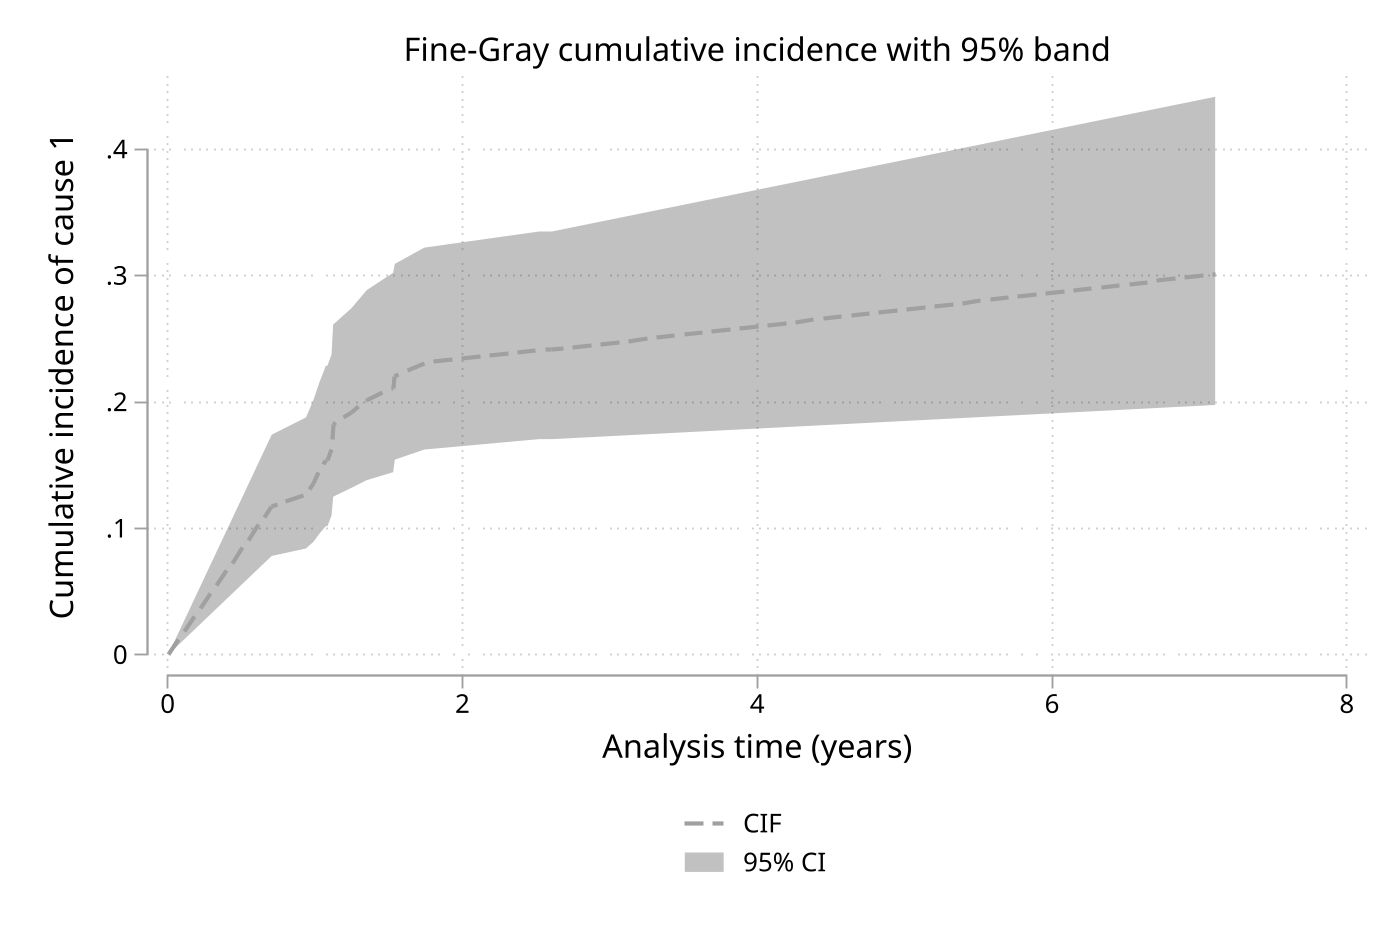
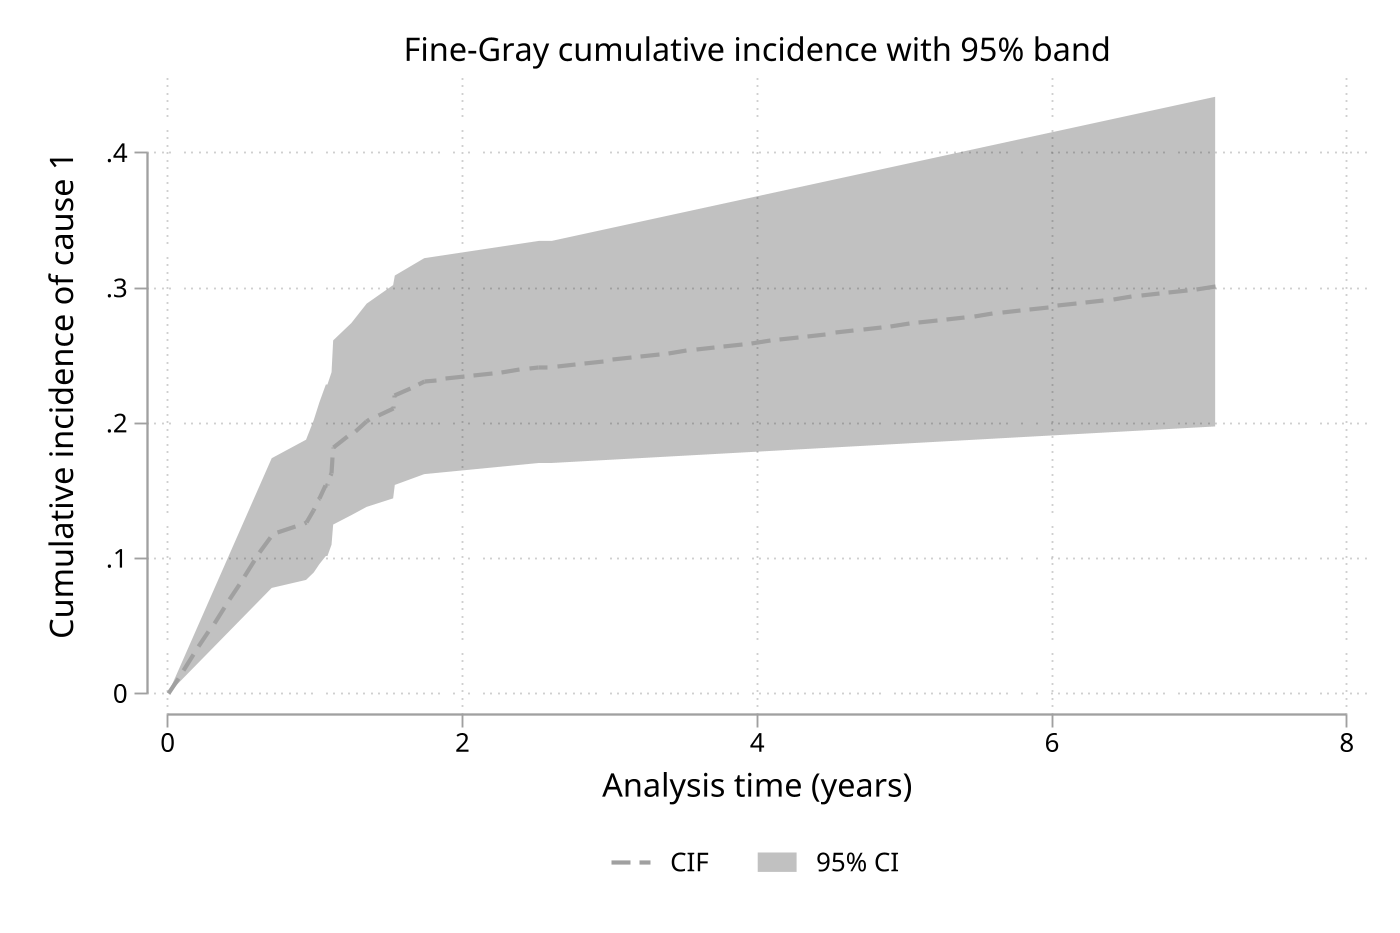
feat(finegray): finegray_cif legend single-row with twoway passthrough

diff --git a/finegray/README.md b/finegray/README.md
@@ -170,7 +170,7 @@ The package QA cross-validates `finegray` against Stata's `stcrreg` and independ
 ## Version History
 
 - **1.1.0** (2026-06-21): Feature release.
-  - New command `finegray_cif`: cumulative incidence curves with pointwise confidence bands (an `stcurve, cif` analogue that also plots the interval), fixed-horizon CIF tables (`attime()`), curves on a custom time grid (`timepoints()`), an exact subject-bootstrap band (`bootstrap()`/`seed()`), and exportable estimates via `saving()`.
+  - New command `finegray_cif`: cumulative incidence curves with pointwise confidence bands (an `stcurve, cif` analogue that also plots the interval), fixed-horizon CIF tables (`attime()`), curves on a custom time grid (`timepoints()`), an exact subject-bootstrap band (`bootstrap()`/`seed()`), and exportable estimates via `saving()`. The CIF plot's legend defaults to a single row, and all `twoway` graph options (including `legend()` — e.g. `legend(off)`, `legend(pos(6))`) pass through and override the defaults.
   - `finegray_predict, cif ci` adds per-subject CIF confidence limits (influence-function SE, complementary log-log scale), with an optional exact `bootstrap()` band. The analytic SE now builds its influence functions from the full estimation sample even when prediction is restricted with `if`/`in`.
   - `finegray` now accepts datasets with multiple records per subject (delayed entry / `(start,stop]` / `stsplit`) when covariates are constant within subject, reducing them automatically; time-varying covariates are rejected with a clear message.
   - Documentation clarification (from the unreleased 1.0.1): `finegray_predict, cif` evaluates the CIF at each observation's own analysis time `_t`; `timevar()` gives a common horizon and `e(basehaz)` is the `stcrreg basecif` analogue.